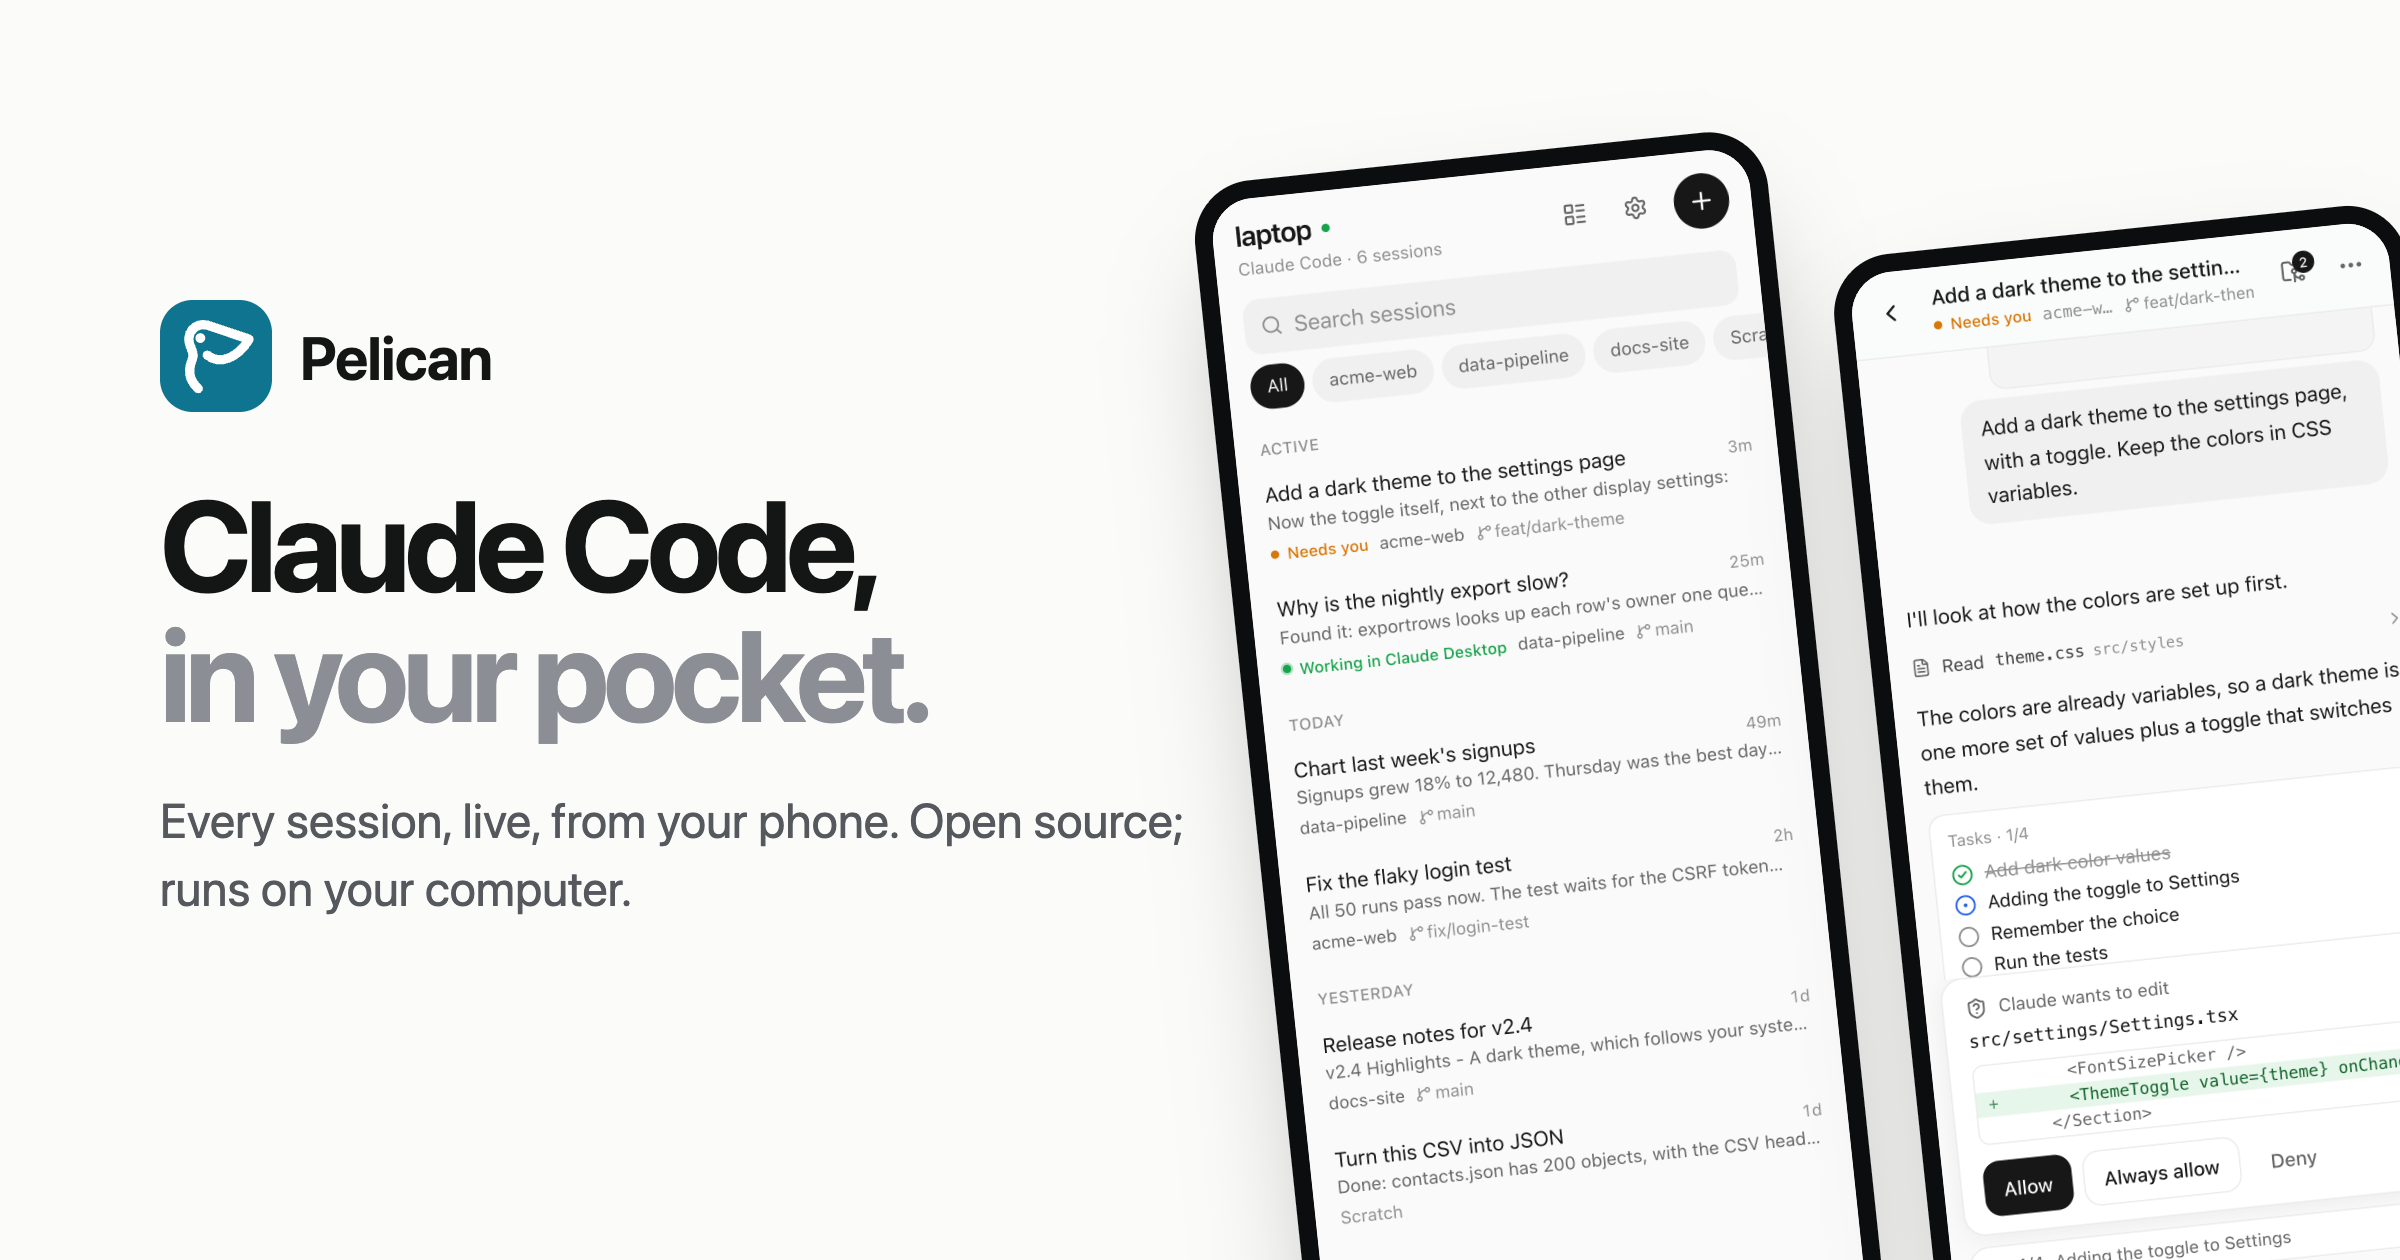
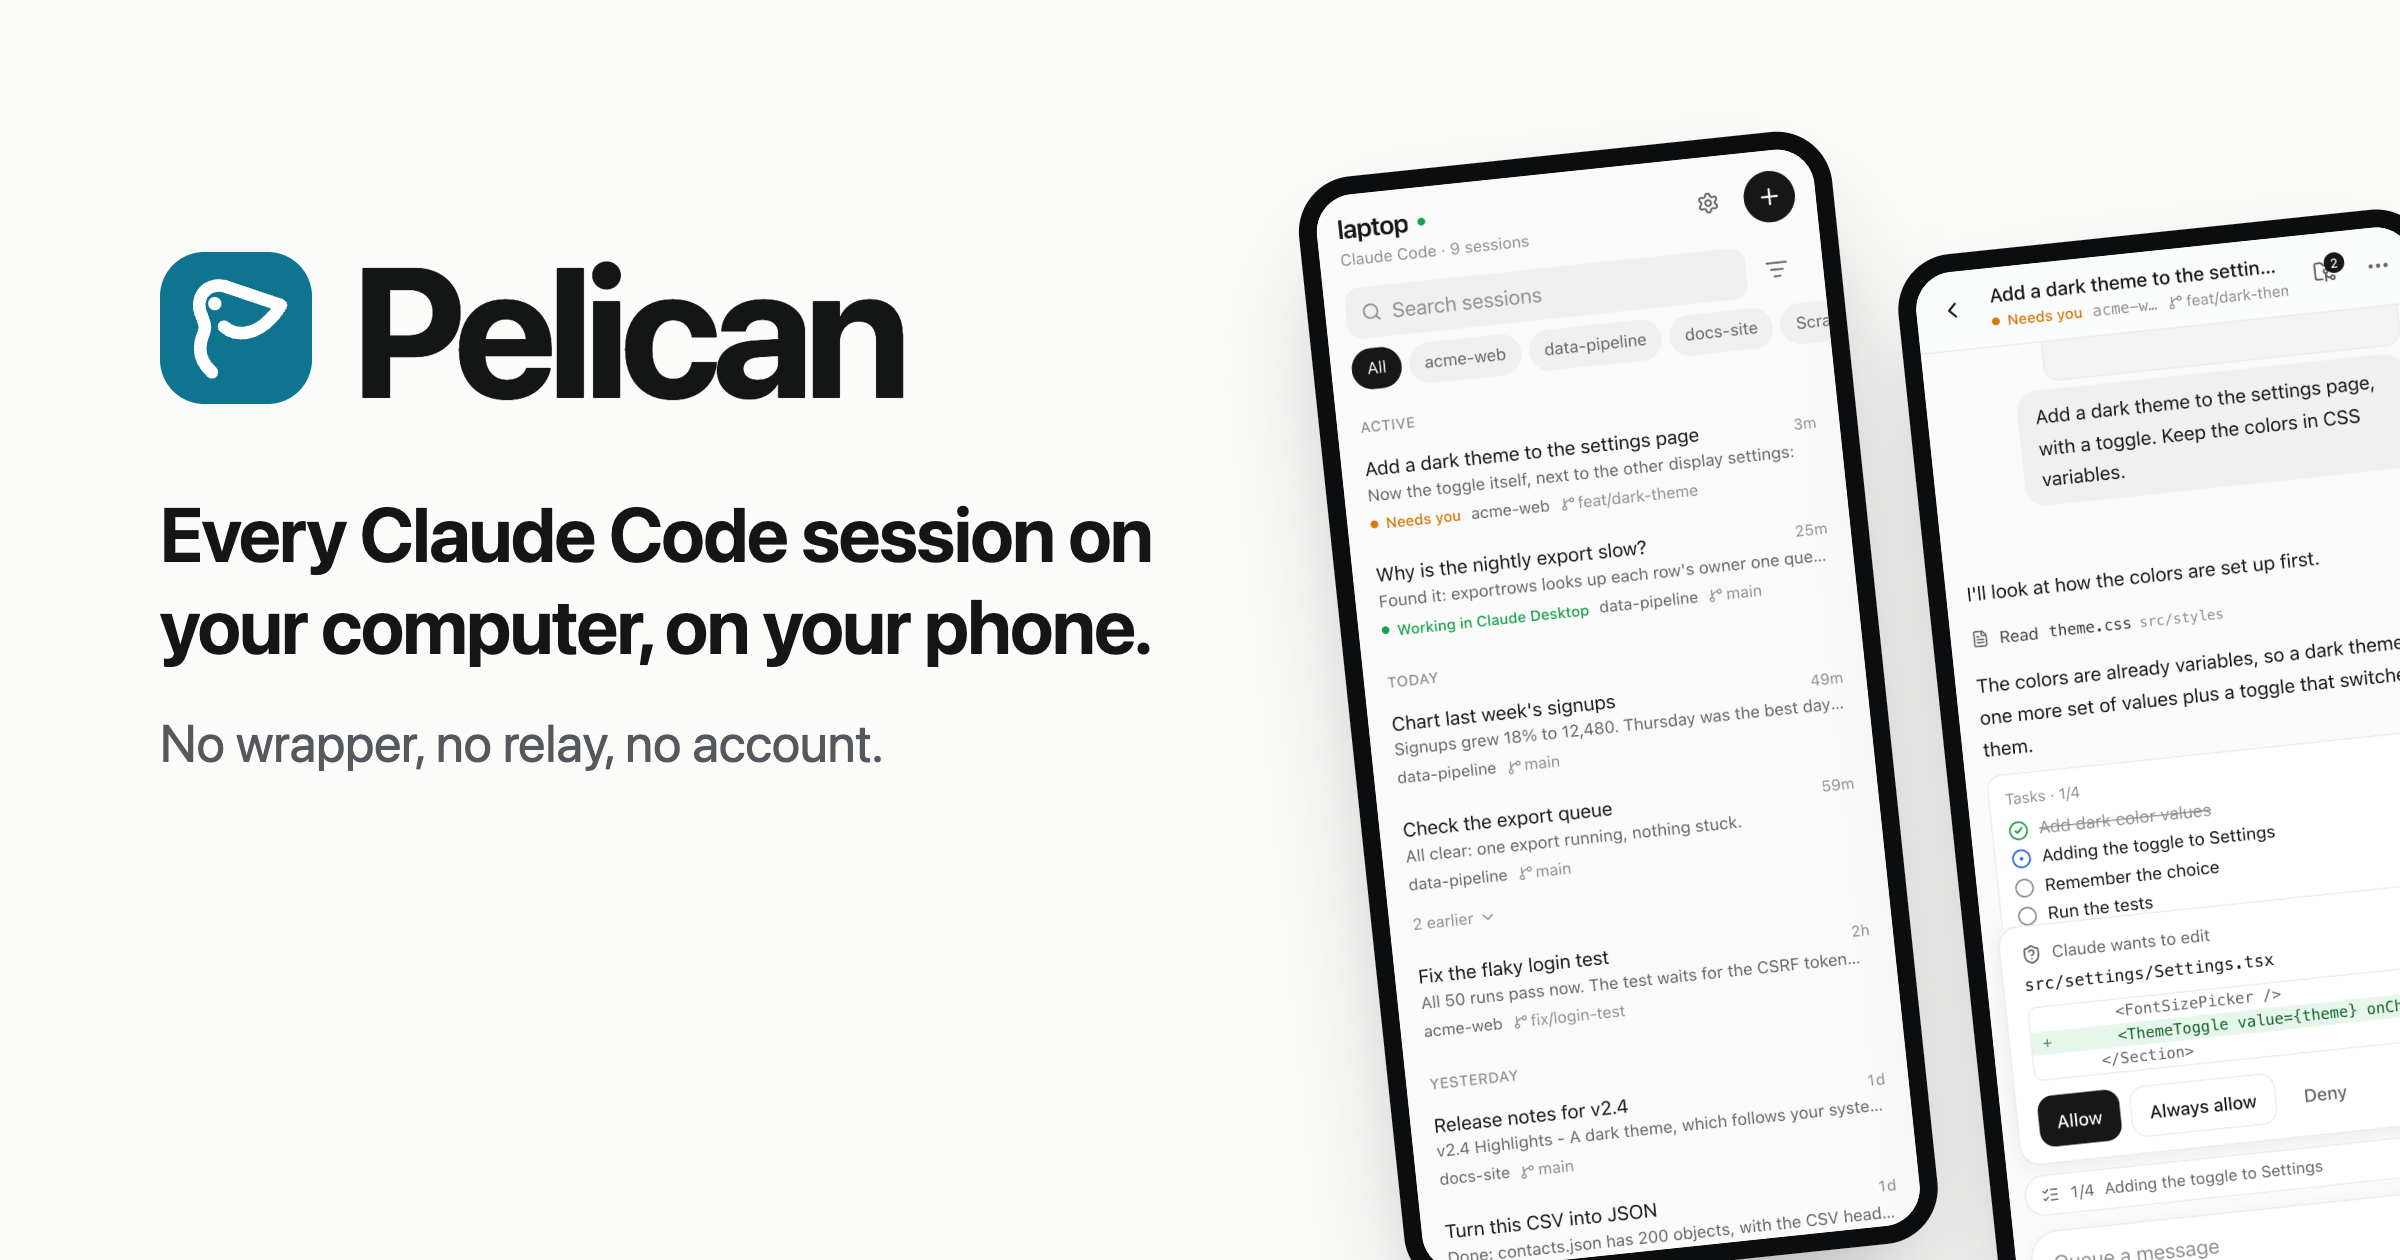
One line everywhere: every Claude Code session on your computer, on your phone
"Claude Code, in your pocket" is the category's stock phrase (Omnara's
Product Hunt tagline, CC Pocket, dozens of repositories), it hides what is
different, and leading with Anthropic's mark invites the "is this
official?" reading. The npm description, the app manifest, the app's own
page description and the social card now say the agreed line, word for
word, with "No wrapper, no relay, no account." as the second line. The
social card makes "Pelican" its biggest word.

package.json also points its homepage at the site and gains the keywords
people search for (claude-agent-sdk, anthropic, phone, pwa, self-hosted,
remote, tailscale).

Changed region(s): [[0.0625, 0.0929, 1.0, 1.0], [0.0625, 0.1857, 0.375, 0.3405], [0.9375, 0.8976, 0.9688, 0.9286]]

diff --git a/src/web/index.html b/src/web/index.html
@@ -7,7 +7,7 @@
     <meta name="theme-color" content="#0a0a0a" media="(prefers-color-scheme: dark)" />
     <meta name="apple-mobile-web-app-capable" content="yes" />
     <meta name="mobile-web-app-capable" content="yes" />
-    <meta name="description" content="Your Claude Code sessions, from any browser" />
+    <meta name="description" content="Every Claude Code session on your computer, on your phone." />
     <meta name="apple-mobile-web-app-status-bar-style" content="default" />
     <link rel="icon" href="./icon.svg" type="image/svg+xml" />
     <link rel="apple-touch-icon" href="./apple-touch-icon.png" />
